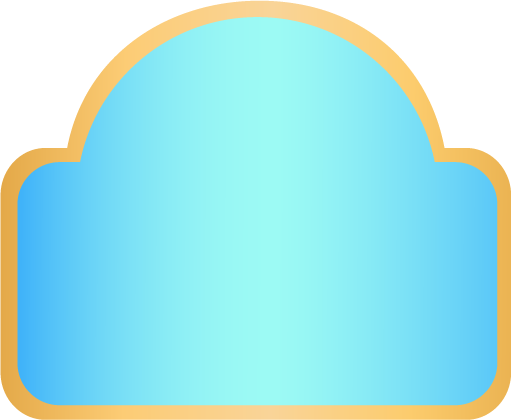
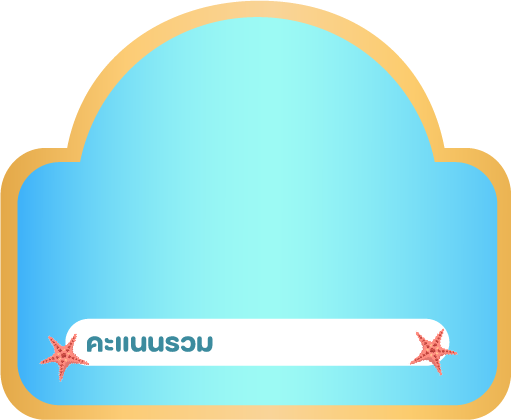
adjust UI button

Changed region(s): [[0.0587, 0.7429, 0.91, 0.8976]]

diff --git a/GameFindItem/style.css b/GameFindItem/style.css
@@ -362,7 +362,7 @@ body {
 }
 
 .menu h1{
-    font-size: 2.5rem;
+    font-size: 3rem;
     margin: 0.5rem;
     color: white;
 }
@@ -373,7 +373,31 @@ body {
     place-items: center;
 }
 
-.outer{
+.timer .outer {
+    height: 120px;
+    width: 220px;
+    background-image: url("asset/time.png");
+    background-repeat: no-repeat;
+    background-position: center center;
+    background-size: cover;
+    display: flex;
+    justify-content: center;
+    align-items: center;
+}
+
+.bar .outer { 
+    height: 70px;
+    width: 280px;
+    background-image: url("asset/score.png");
+    background-repeat: no-repeat;
+    background-position: center;
+    background-size: cover;
+    display: flex;
+    justify-content: center;
+    align-items: center;
+}
+
+#game_over .outer, #tutorial .outer{
     display: flex;
     height: 90px;
     width: 250px;
@@ -409,14 +433,6 @@ body {
     color: white;
 }
 
-.timer {
-    display: flex;
-    /* position: absolute;
-    left: 50%;
-    transform: translateX(-50%); */
-}
-
-
 #game_over, #tutorial {
     position: absolute;
     height: 550px;
@@ -429,8 +445,8 @@ body {
 }
 
 #game_over {
-    height: 510px;
-    width: 550px;
+    height: 530px;
+    width: 640px;
 }
 
 #game_over .outer, #tutorial .outer {
@@ -457,29 +473,23 @@ body {
     align-items: center;
     height: 410px;
     width: 440px;
-    background-color: white;
     border-radius: 2rem; 
 }
 
 .boxitem {
-    position: relative;
     width: 100%;
     height: 100%;
+    background-image: url(asset/final.png);
+    background-position: center center;
+    background-repeat: no-repeat;
+    background-size: cover;
+    position: relative;
+    display: flex;
+    justify-content: center;
+    align-items: start;
 }
 
-.boxitem .score{
-    width: 100%;
-    position: absolute;
-    font-size: 4rem;
-    top: -13%;
-    left: 50%;
-    transform: translateX(-50%);
-    text-align: center;
-    margin: 0.5rem;
-    color: white;
-}
-
-.wrapper h1{
+#tutorial .wrapper h1{
     color: #262262;
     background-color: #fff;
     padding: 0.25rem 2rem;
@@ -493,13 +503,16 @@ body {
 }
 
 #score {
-    font-size: 4rem;
+    position: absolute;
+    top: 93%;
+    left: 50%;
+    font-size: 2.7rem;
     padding: 0;
     margin: 1rem;
     background-color: transparent;
 }
 
-.circleclip {
+/* .circleclip {
     position: absolute;
     top: -77%;
     left: 50%;
@@ -529,7 +542,7 @@ body {
     padding-bottom: 3rem;
     width: 220px;
     height: 110px;
-}
+} */
 
 .grade {
     /* display: none; */
@@ -540,7 +553,7 @@ body {
 
 .grade .pic {
     position: absolute;
-    top: 27%;
+    top: -20%;
     left: 50%;
     transform: translateX(-50%);
     display: flex;
@@ -551,8 +564,8 @@ body {
 }
 
 .pic .char {
-    height: 160px;
-    width: 160px;
+    height: 300px;
+    width: 300px;
     background-position: center center;
     background-repeat: no-repeat;
 }
@@ -563,6 +576,15 @@ body {
     color: #262262;
     padding: 0;
     margin: 0;
+}
+
+.pic h1 {
+    font-size: 4.5rem;
+}
+
+.pic h2 {
+    font-size: 2.5rem;
+    transform: translateY(-10px);
 }
 
 #content1 .char{
@@ -598,17 +620,28 @@ body {
     cursor: pointer;
 }
 
-#reset, #main {
-    text-align: center;
-    font-size: 2rem;
-    border: solid 0.5rem #fff;
-    border-radius: 3rem;
-    padding: 0.5rem 0;
-    background: linear-gradient(to bottom, #446DB0, #3F509F, #2F1086);
+#reset {
+    background-image: url(asset/again.png);
 }
 
+#main {
+    background-image: url(asset/main.png);
+}
+
+#reset, #main {
+    height: 70px;
+    width: 240px;
+    background-size: cover;
+    background-position: center center;
+    background-repeat: no-repeat;
+    display: flex;
+    justify-content: center;
+    align-items: center;
+}
+/* 
 #reset a, #main a{
     color: #fff;
+    font-size: 2rem;
     border-radius: 1.5rem;
     margin: 2rem;
-}
+} */

diff --git a/GameFindItem/index.html b/GameFindItem/index.html
@@ -58,32 +58,27 @@
 
         <div id="game_over">
             <div class="boxitem">
-                <div class="circleclip"></div>
+                <!-- <div class="circleclip"></div>
                 <div class="circle">
                     <img src="asset/menu_atar.png" alt="star"/>
-                </div>
-                <h1 class="score">คะแนนรวม</h1>
-                <div class="outer">
-                    <div class="inner">
-                        <div class="wrapper">
-                            <h1 id="score"></h1>
-                            <div class="grade">
-                                <div class="pic" id="content1">
-                                    <div class="char"></div>
-                                    <h1>เก่งมาก!</h1>
-                                    <h2>ทะเลสะอาดแล้ว</h2>
-                                </div>
-                                <div class="pic" id="content2">
-                                    <div class="char"></div>
-                                    <h1>ดีแล้ว!</h1>
-                                    <h2>สู้อีกนิดนะ</h2>
-                                </div>
-                                <div class="pic" id="content3">
-                                    <div class="char"></div>
-                                    <h1>ไม่สะอาดเลย!</h1>
-                                    <h2>ต้องเก็บใหม่อีกแล้ว</h2>
-                                </div>
-                            </div>
+                </div> -->
+                <div class="wrapper">
+                    <h1 id="score"></h1>
+                    <div class="grade">
+                        <div class="pic" id="content1">
+                            <div class="char"></div>
+                            <h1>เก่งมาก!</h1>
+                            <h2>ทะเลสะอาดแล้ว</h2>
+                        </div>
+                        <div class="pic" id="content2">
+                            <div class="char"></div>
+                            <h1>ดีแล้ว!</h1>
+                            <h2>สู้อีกนิดนะ</h2>
+                        </div>
+                        <div class="pic" id="content3">
+                            <div class="char"></div>
+                            <h1>ไม่สะอาดเลย!</h1>
+                            <h2>ต้องเก็บใหม่อีกแล้ว</h2>
                         </div>
                     </div>
                 </div>
@@ -100,18 +95,14 @@
 
         <div class="menu">
             <div class="timer">     
-                <div class="outer">
-                    <div class="inner">
-                        <h1 id="time">60</h1>
-                    </div> 
+                <div class="outer">               
+                        <h1 id="time">60</h1>                  
                 </div>
             </div>
             <div class="bar">
                 <h2>คะแนน</h2>
-                <div class="outer">
-                    <div class="inner">
-                        <h1 id="point">000</h1>
-                    </div> 
+                <div class="outer">               
+                        <h1 id="point">000</h1>               
                 </div>
             </div>
         </div>
